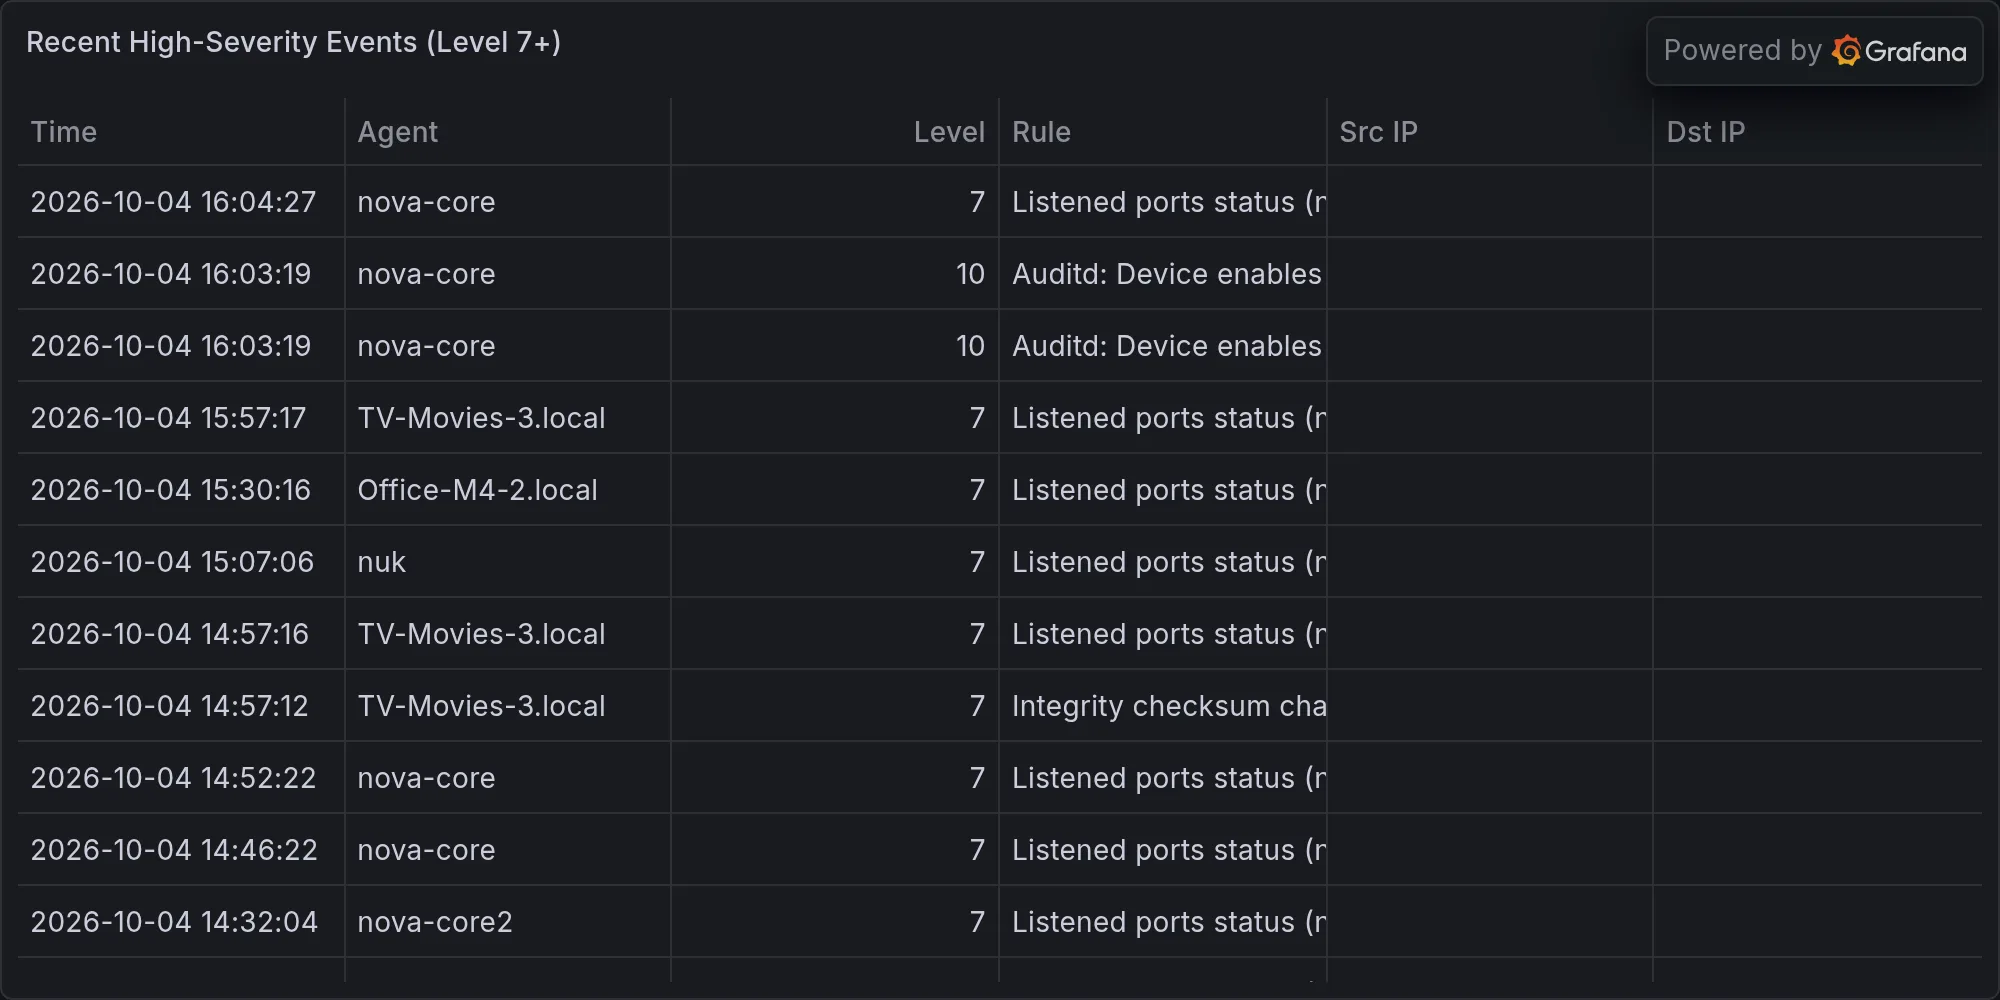
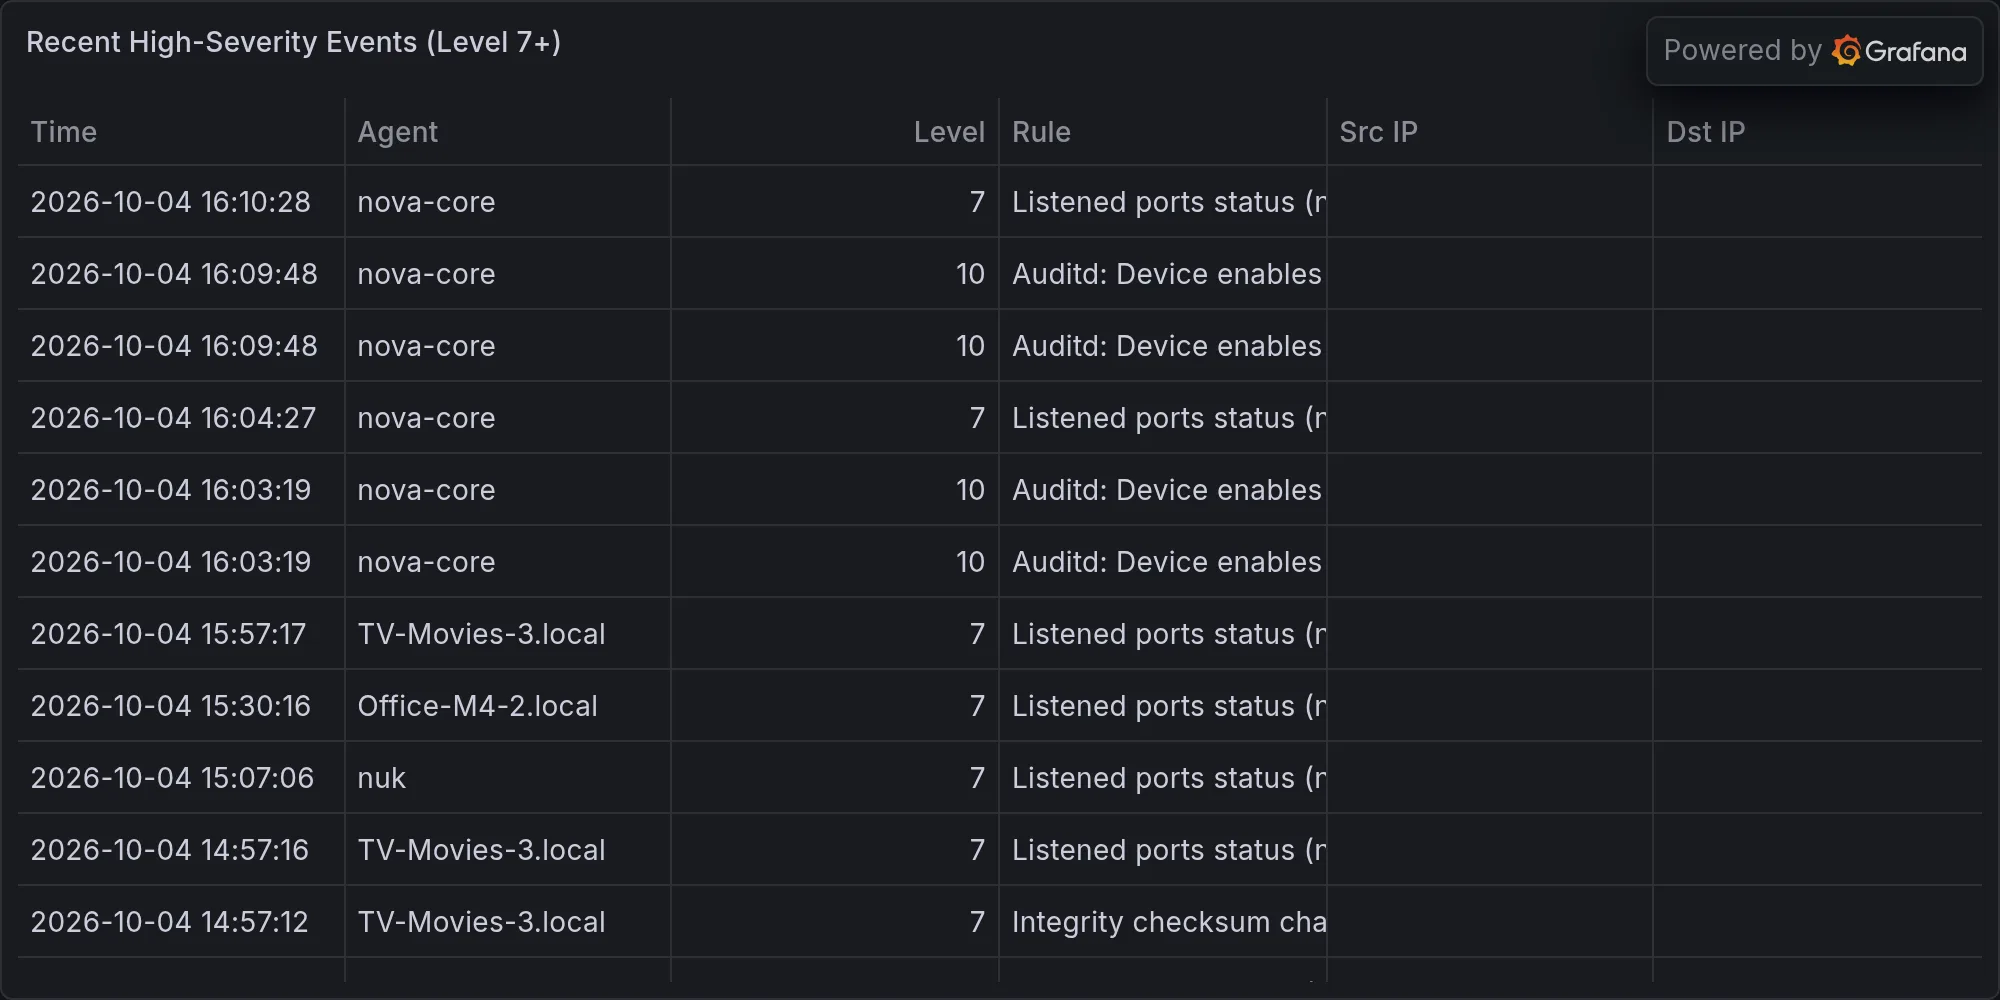
security: 2026-10-04 — **LATERAL MOVEMENT DETECTED ON NOVA-CORE NETWORK —

diff --git a/content/operations/2026-10-04-lateral-movement-detected-on-nova-core-network-internal-thre.md b/content/operations/2026-10-04-lateral-movement-detected-on-nova-core-network-internal-thre.md
@@ -1,0 +1,58 @@
+---
+title: "🛡 **LATERAL MOVEMENT DETECTED ON NOVA-CORE NETWORK — INTERNAL THREAT**"
+date: 2026-10-04T16:27:33-07:00
+draft: false
+categories: ["operations"]
+tags: ["breaking-alert", "ips-lateral-scan-192-168-1-9-hit-5-ports", "security"]
+description: "BREAKING: IPS: Lateral scan: 192.168.1.9 hit 5 ports on 192.168.1.138 in 60s"
+cover:
+  image: "/images/operations/2026-10-04-lateral-movement-detected-on-nova-core-network-internal-thre.webp"
+  alt: "**LATERAL MOVEMENT DETECTED ON NOVA-CORE NETWORK — INTERNAL THREAT**"
+  relative: false
+---
+
+*Published Sunday, October 04, 2026 at 04:27 PM PT*
+
+![**LATERAL MOVEMENT DETECTED ON NOVA-CORE NETWORK — INTERNAL THREAT**](/images/operations/2026-10-04-lateral-movement-detected-on-nova-core-network-internal-thre.webp)
+
+**BLUF:** Internal IPS detected aggressive port scanning from 192.168.1.9 to 192.168.1.138 (5 ports in 60 seconds) on 2026-10-04. This is a lateral movement pattern consistent with post-compromise reconnaissance. Immediate action: isolate source IP 192.168.1.9 pending asset identification and forensics. Scope limited to internal network; external entry vector unknown.
+
+---
+
+**DETAILS**
+
+- IPS alert triggered on nova-core: 192.168.1.9 scanned 5 distinct ports on 192.168.1.138 within 60-second window — scanning rate and density consistent with active compromise or lateral movement staging.
+- Traffic is internal (RFC 1918 addresses); no external component observed in available telemetry.
+- Target ports not specified in alert; recommend immediate retrieval of flow data to identify which services were probed.
+- Source asset 192.168.1.9 identity unknown — may be compromised workstation, rogue VM, or attacker pivot point from initial breach.
+- Alert status: **Detected only** — no confirmation of successful exploitation or data exfiltration at this time.
+
+---
+
+**IMPACT**
+
+- **Scope:** Internal network segment containing 192.168.1.0/24.
+- **Affected systems:** 192.168.1.138 (target) and 192.168.1.9 (source). Assets beyond these two not yet confirmed compromised.
+- **Risk level:** HIGH — lateral movement is post-compromise activity; implies attacker already has network access and is mapping internal topology.
+
+---
+
+**RECOMMENDED ACTIONS**
+
+1. **Immediate:** Isolate 192.168.1.9 from network pending forensics (preserve for analysis, do not wipe).
+2. **Immediate:** Pull full IPS logs for port details and check for success/failure indicators on 192.168.1.138.
+3. **Within 1 hour:** Identify both assets (MAC addresses, asset register, DHCP logs); determine if either is expected or rogue.
+4. **Within 2 hours:** Check 192.168.1.138 for intrusion artifacts (failed connection attempts, successful logins, privilege escalation).
+5. **Ongoing:** Expand search for other lateral scans from same source IP or similar patterns; check for initial compromise vector (phishing, VPN, unpatched exposure).
+
+---
+
+**SOURCES**
+
+- IPS alert from nova-core (detection engine: lateral_movement; timestamp: 2026-10-04; action: detected)
+
+---
+
+**Recent high-severity events at publish time:**
+
+![Recent high-severity events](/images/operations/2026-10-04-breaking-alert-posture.webp)
